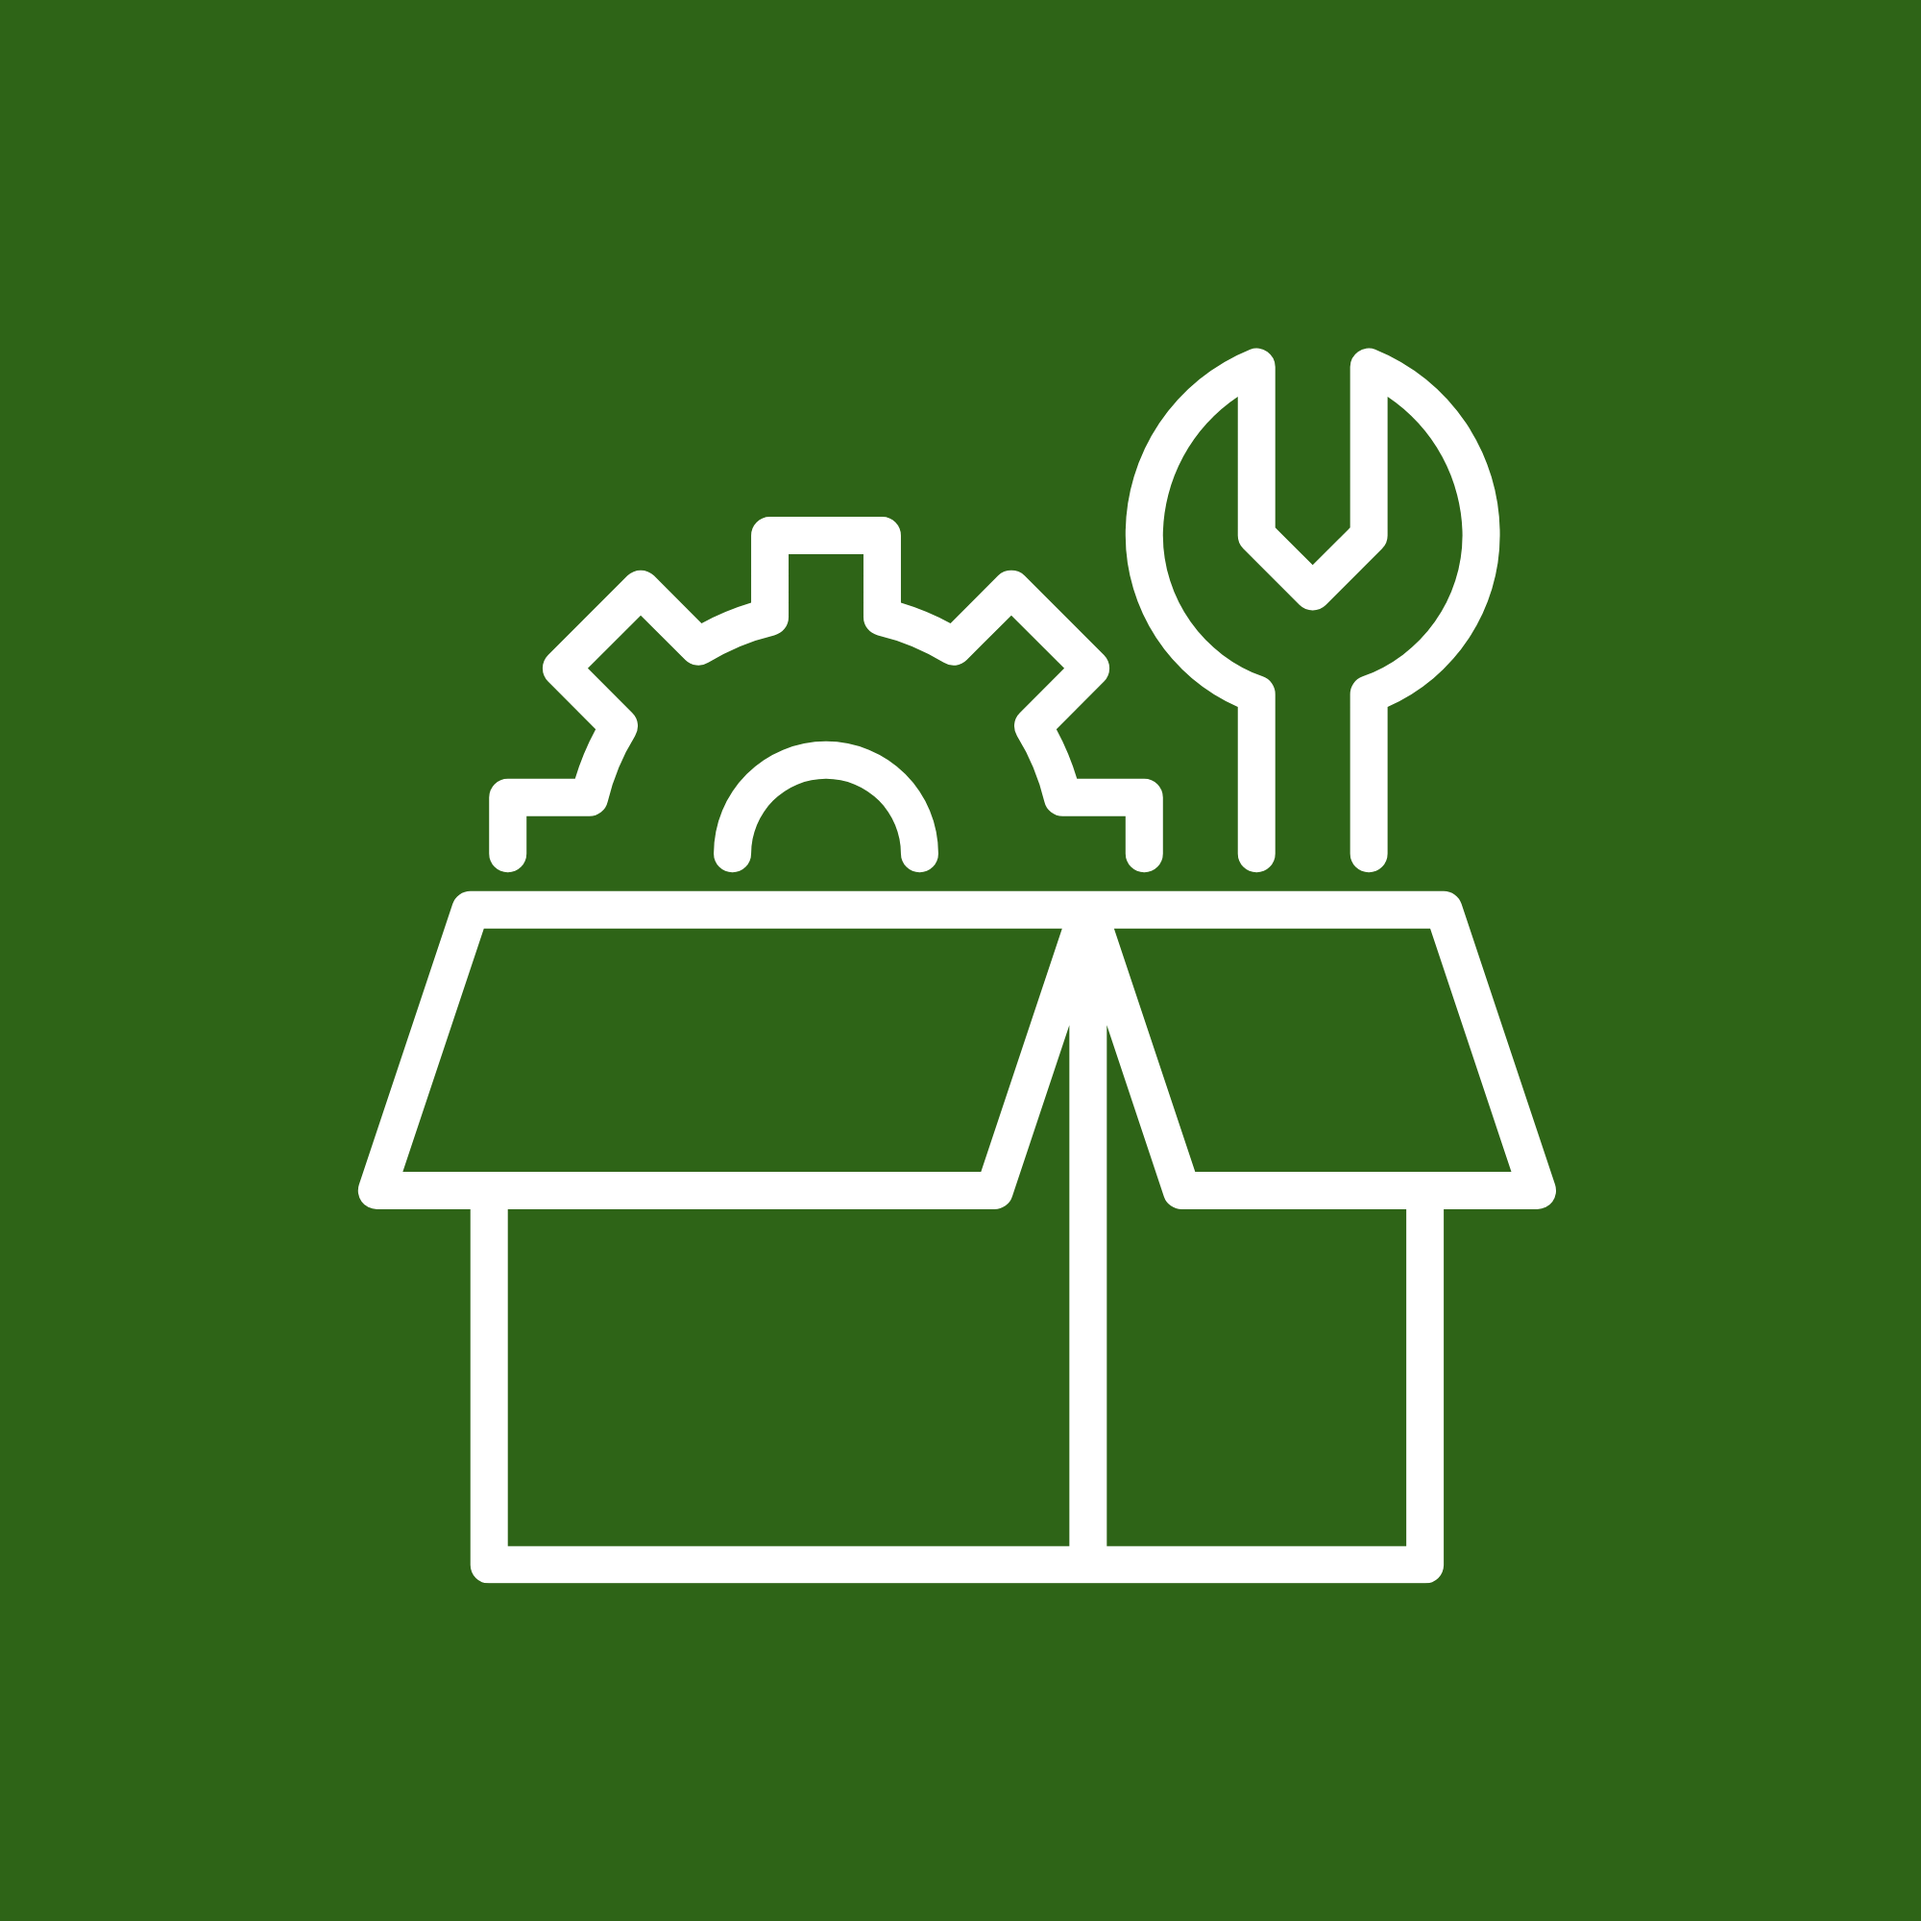
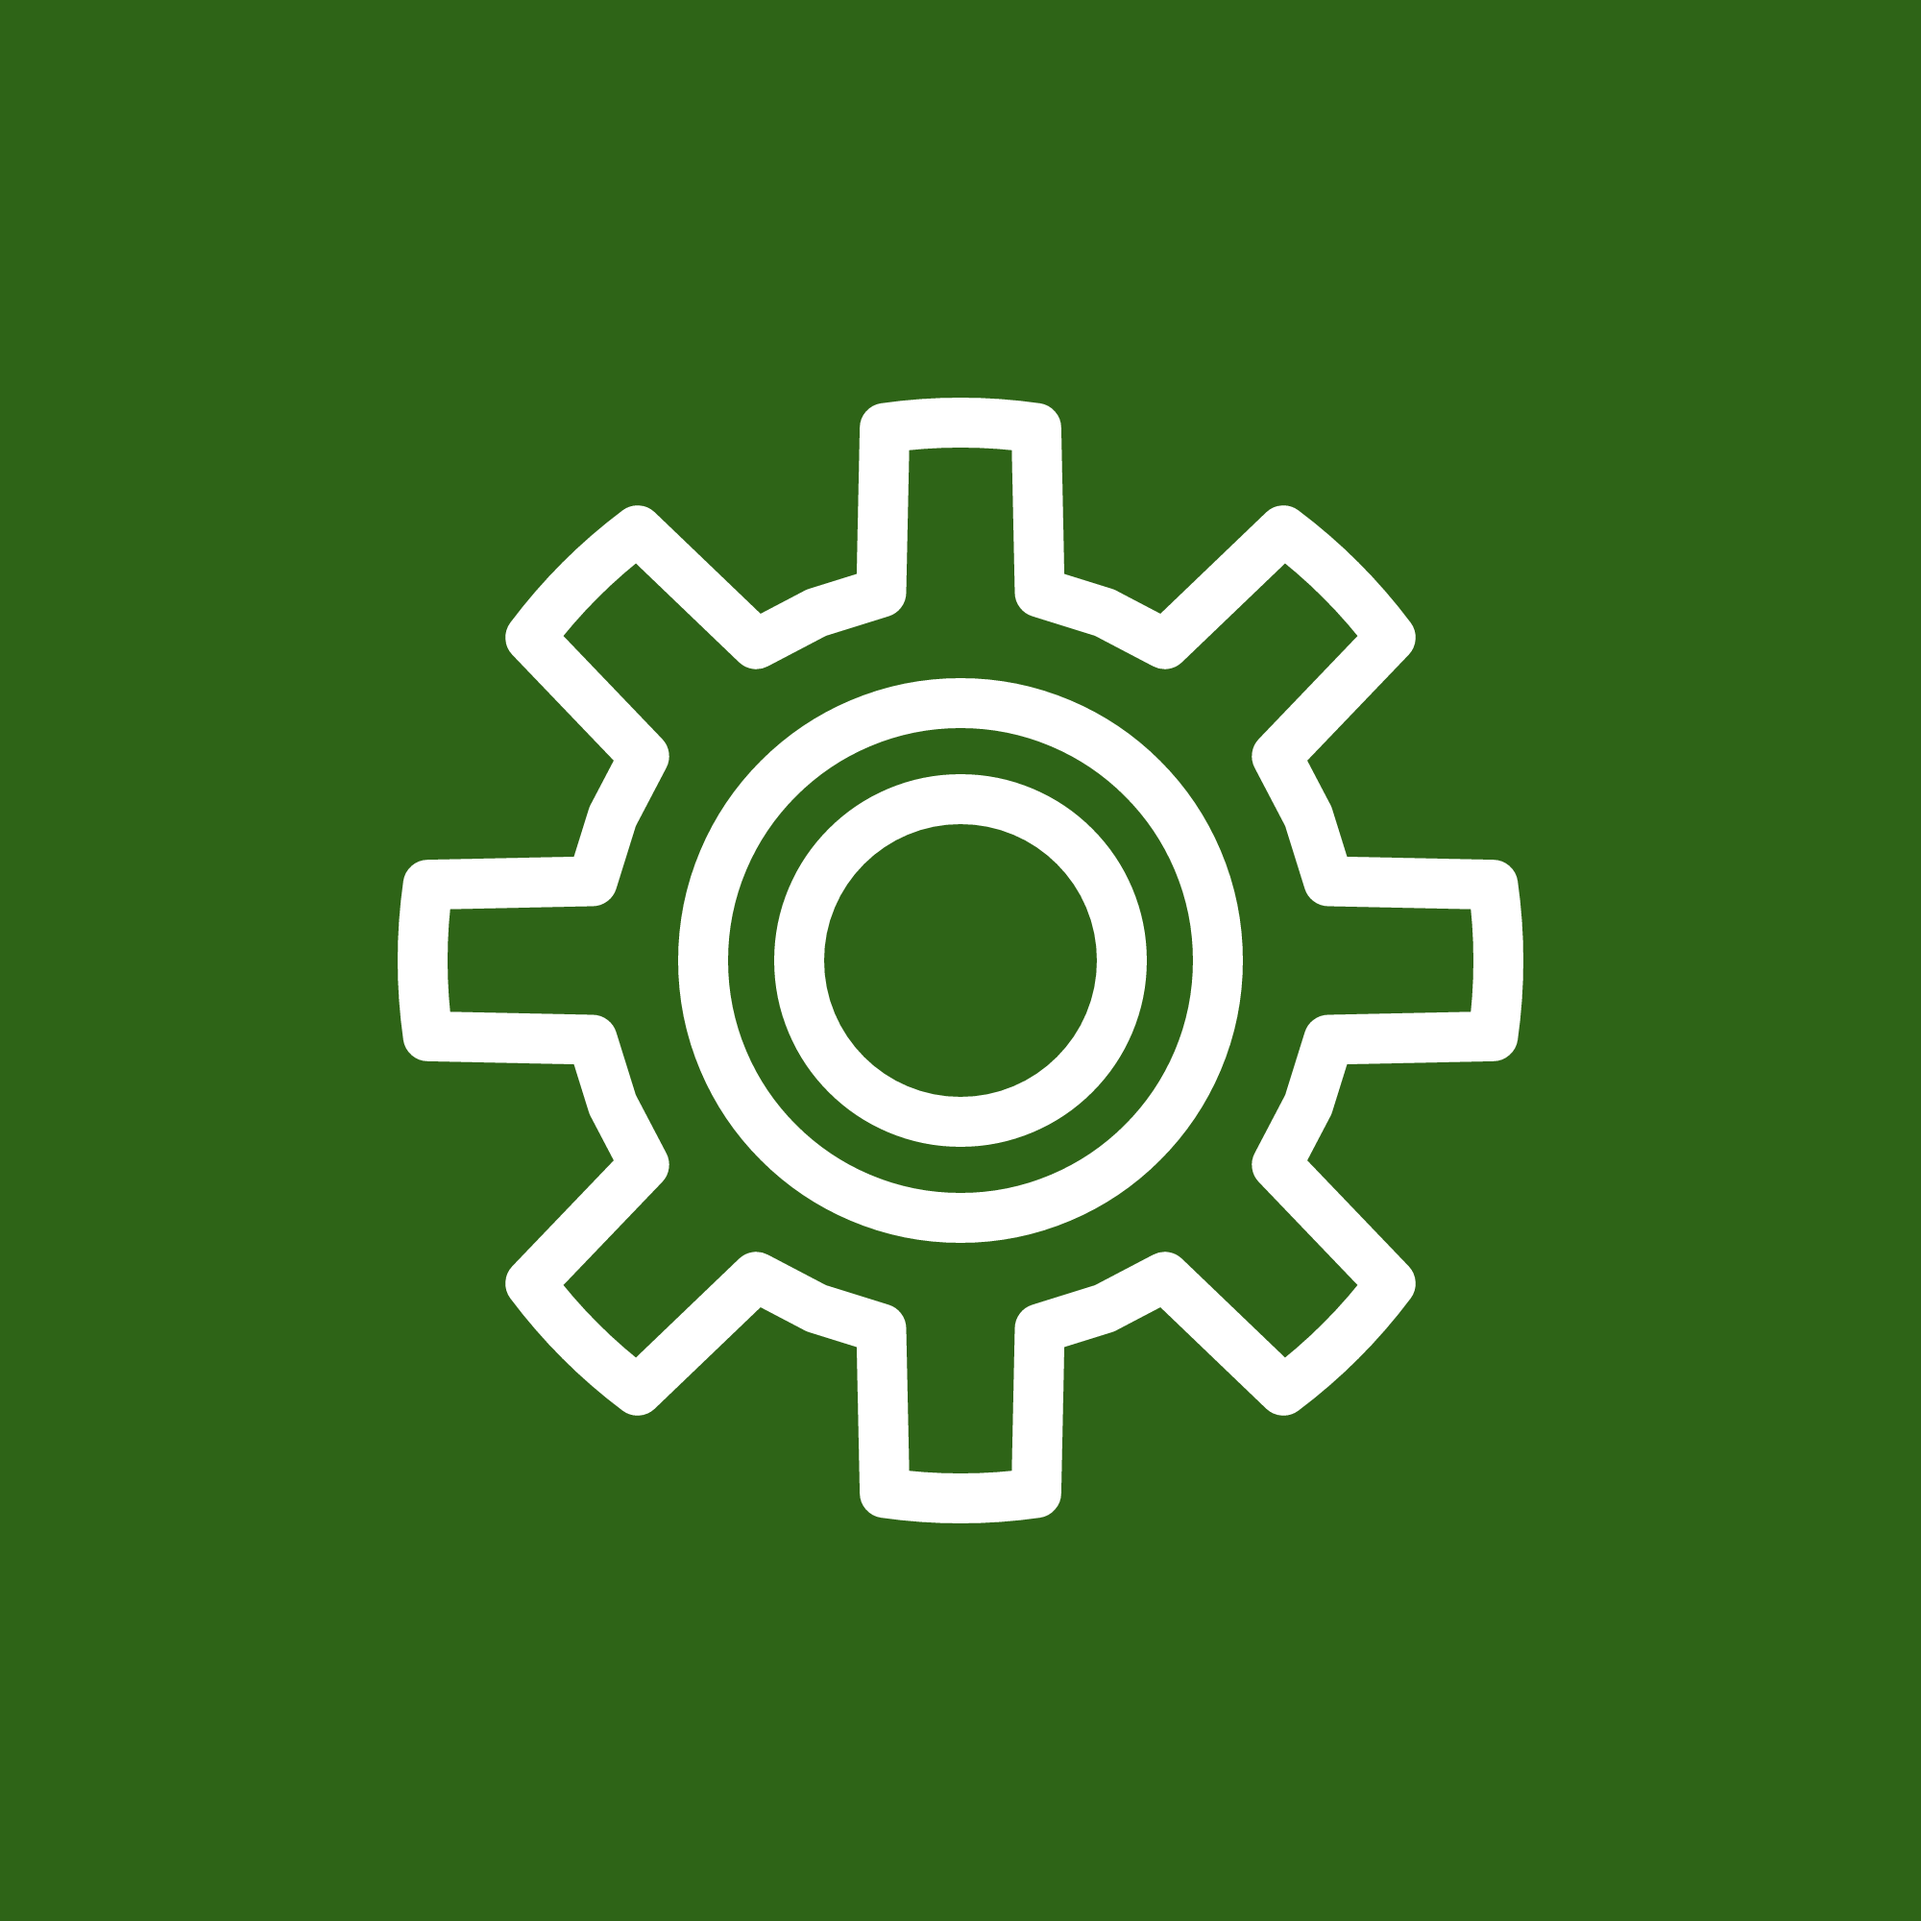
Parçacı logosunu dişli yap

Changed region(s): [[0.186, 0.186, 0.806, 0.837]]

diff --git a/src/lib/dealer-logos.ts b/src/lib/dealer-logos.ts
@@ -1,5 +1,5 @@
 /** Uygulamadaki bayi PNG’leri — `otopazar/images` ile birebir. */
-export const DEALER_LOGO_VER = "20261121d";
+export const DEALER_LOGO_VER = "20261121e";
 
 const TYPE_LOGOS: Record<string, string> = {
   galeri: `/menu/galeri.png?v=${DEALER_LOGO_VER}`,
